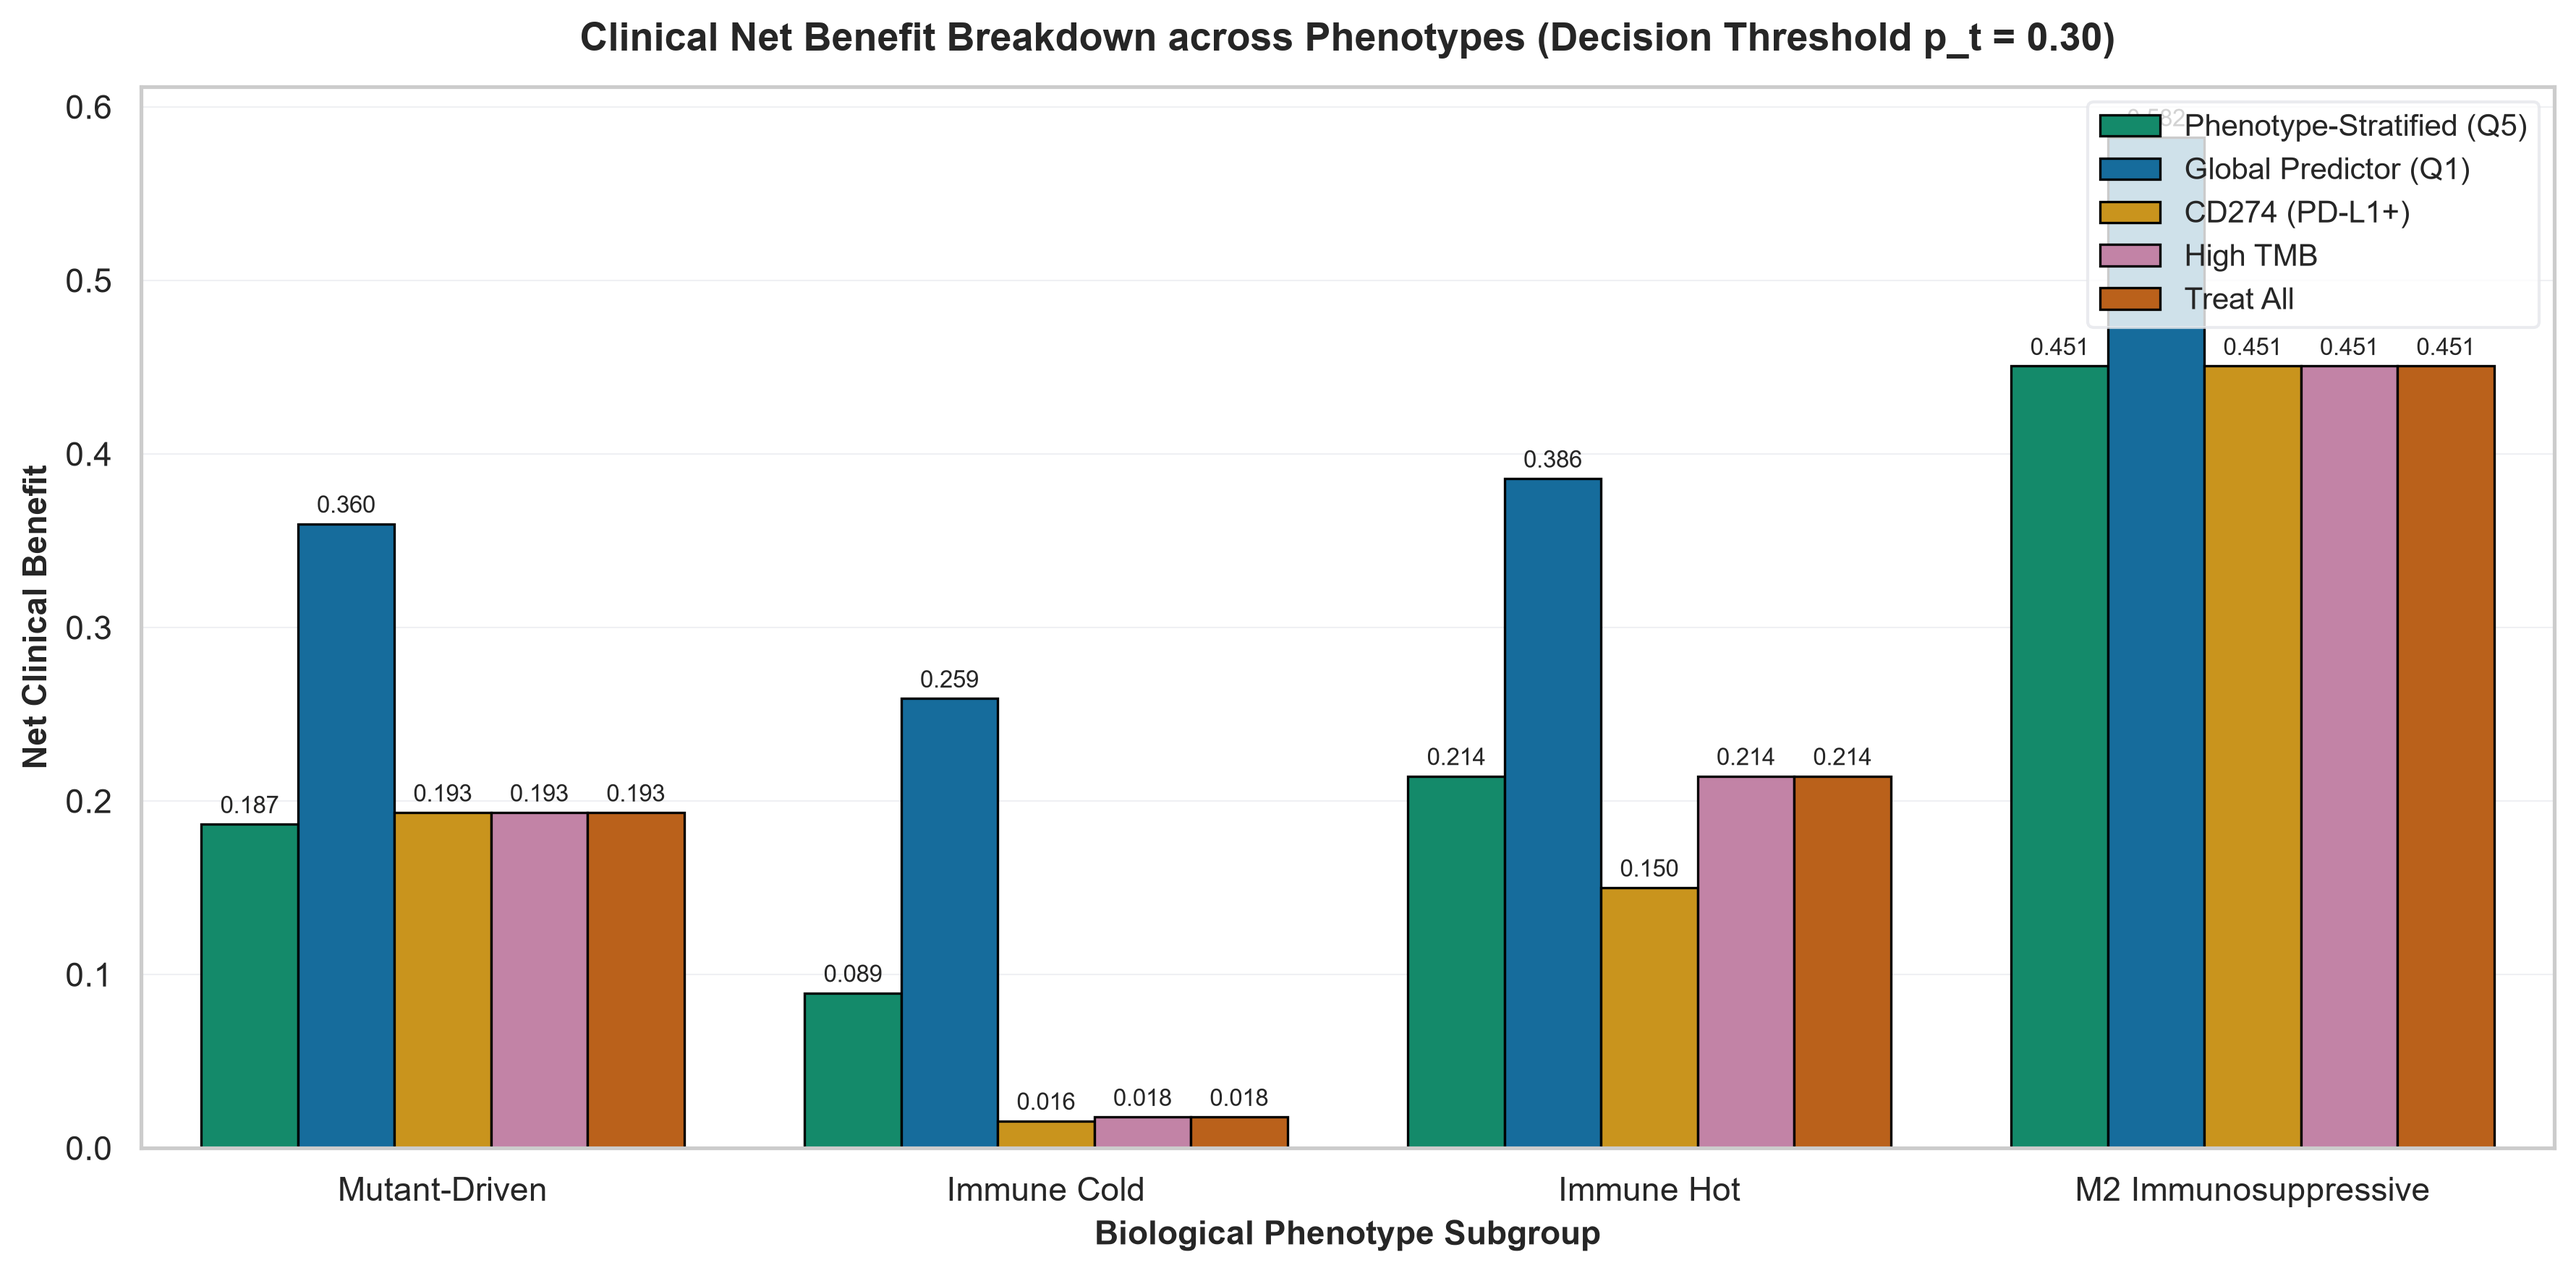
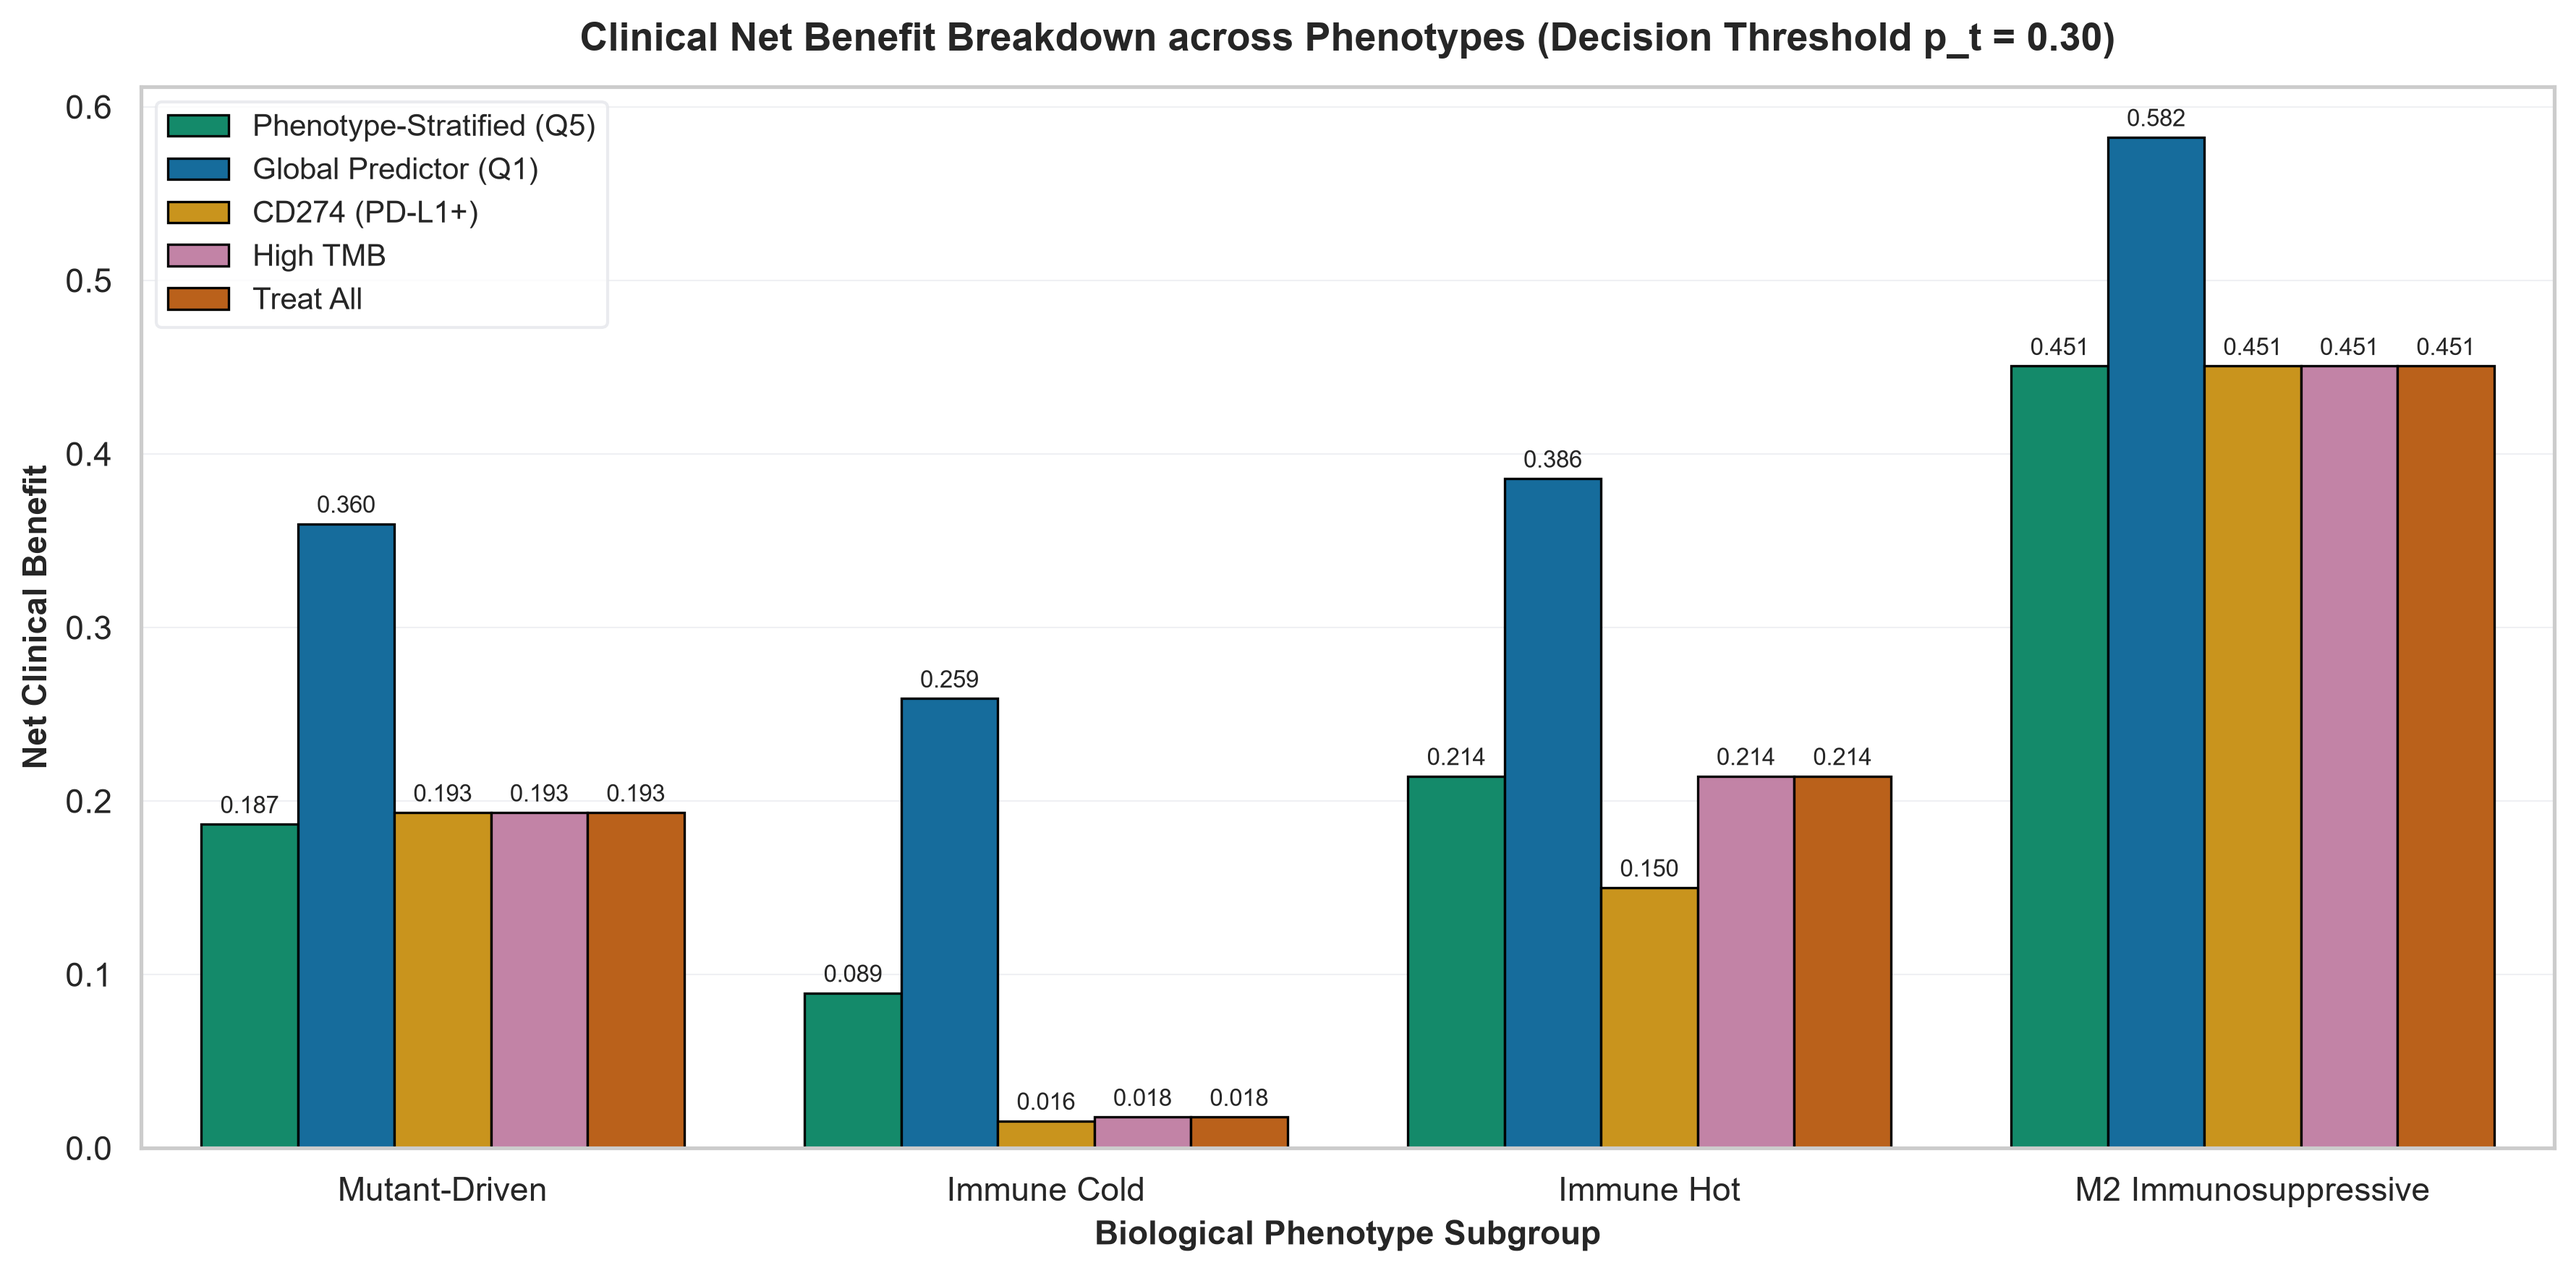
style(q5): move legend to upper left on net_benefit_by_phenotype plot

Changed region(s): [[0.8104, 0.0625, 0.9663, 0.2811], [0.0623, 0.0625, 0.2182, 0.2499]]

diff --git a/q5-patient-stratification/scripts/06_clinical_utility.py b/q5-patient-stratification/scripts/06_clinical_utility.py
@@ -484,7 +484,7 @@ def plot_net_benefit_by_phenotype(
     ax.set_title(f"Clinical Net Benefit Breakdown across Phenotypes (Decision Threshold p_t = {pt:.2f})", fontsize=13, fontweight="bold", pad=12)
     ax.set_xlabel("Biological Phenotype Subgroup", fontsize=11, fontweight="bold")
     ax.set_ylabel("Net Clinical Benefit", fontsize=11, fontweight="bold")
-    ax.legend(loc="upper right", frameon=True, facecolor="white", edgecolor="#E5E7EB", fontsize=10)
+    ax.legend(loc="upper left", frameon=True, facecolor="white", edgecolor="#E5E7EB", fontsize=10)
     ax.grid(True, axis="y", color="#E5E7EB", linewidth=0.5, alpha=0.6)
 
     for p in ax.patches:
